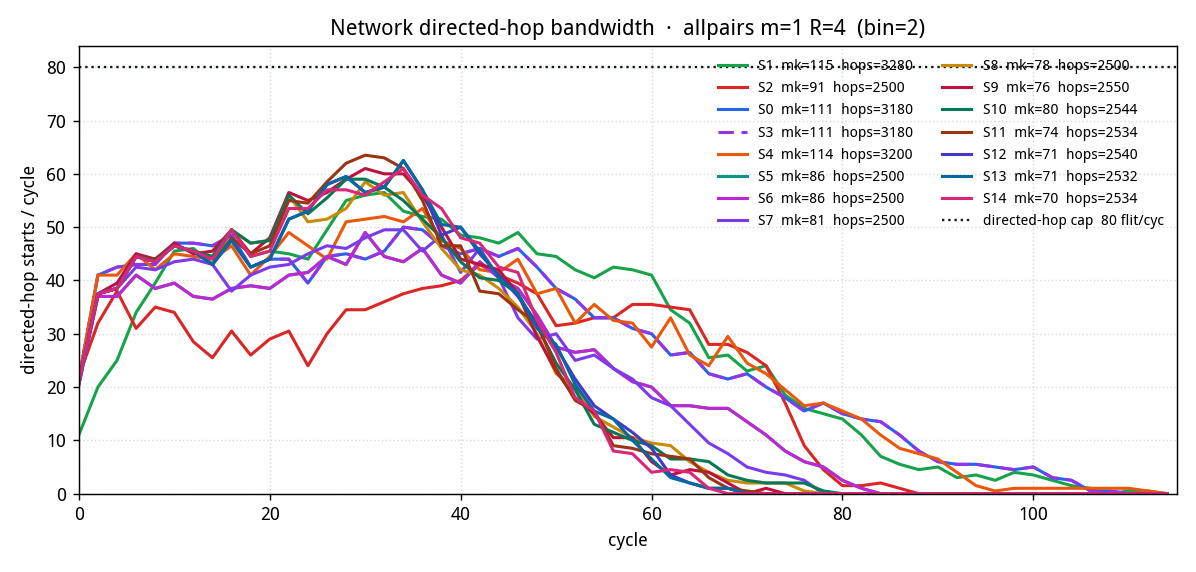
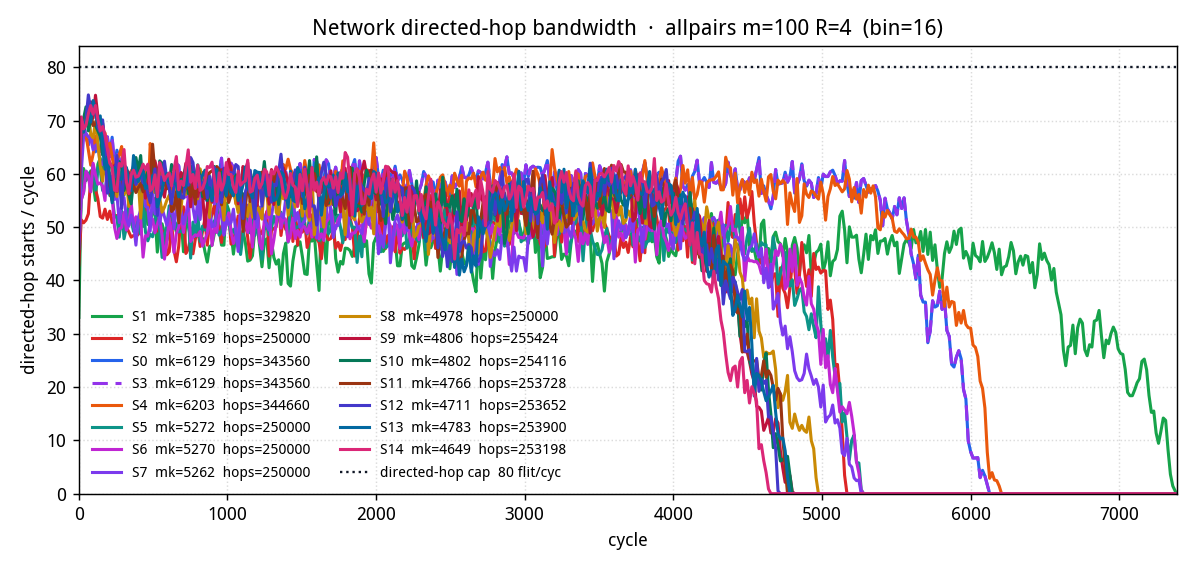
Plot allpairs directed-hop bandwidth at m=100 instead of m=1.
The previous overlay was latency-bound and barely loaded the 80-hop cap; m=100 makes the same figure bandwidth-limited so S0–S14 can be compared under sustained occupancy.

diff --git a/results/report_ring2_20node.html b/results/report_ring2_20node.html
@@ -194,9 +194,9 @@ S14 HA 同节点两条 srcq 争同一第一跳时，输家换 plane。</p>
 <p><img src="ring2_core_recv_bw_10k.png" alt="每核接收带宽 10k"></p>
 <p class="note">下面两张是<b>全网 80 条有向段</b>每拍启动的 hop 数（σ=1，
 虚线 = 80 flit/cycle）。偏转也计入——偏转会再占 hop。不是每核接收带宽。
-uniform 与 allpairs 各一张，S0–S14 叠在同一时间轴上。</p>
+uniform 与 allpairs m=100 各一张，S0–S14 叠在同一时间轴上。</p>
 <p><img src="ring2_link_bw_10k.png" alt="uniform 10k 全网有向段总带宽"></p>
-<p><img src="ring2_link_bw_allpairs.png" alt="allpairs 全网有向段总带宽"></p>
+<p><img src="ring2_link_bw_allpairs.png" alt="allpairs m=100 全网有向段总带宽"></p>
 <table><thead><tr><th></th><th>S0 RR</th><th>S1 AIMD</th><th>S2 request-grant</th><th>S3 push-on-pull</th><th>S4 kind-aware leave</th><th>S5 leave-slot lock</th><th>S6 oldest dest</th><th>S7 hop bounce</th><th>S8 late plane</th><th>S9 late dir</th><th>S10 resp late dir</th><th>S11 hop hold</th><th>S12 hop islip</th><th>S13 hop short</th><th>S14 HA sib plane</th></tr></thead><tbody><tr><td>makespan</td><td>14894</td><td>18616</td><td>10512</td><td>14894</td><td>15029</td><td>13001</td><td>13033</td><td>12798</td><td>11968</td><td>11698</td><td>11757</td><td>11351</td><td>11381</td><td>11201</td><td>11106</td></tr><tr><td>偏转次数</td><td>11035</td><td>9083</td><td>0</td><td>11035</td><td>10980</td><td>0</td><td>0</td><td>0</td><td>0</td><td>0</td><td>0</td><td>0</td><td>0</td><td>0</td><td>0</td></tr><tr><td>上环队列峰值</td><td>8</td><td>8</td><td>—</td><td>8</td><td>8</td><td>8</td><td>8</td><td>8</td><td>8</td><td>8</td><td>8</td><td>8</td><td>8</td><td>8</td><td>8</td></tr><tr><td>下环队列峰值</td><td>1</td><td>1</td><td>0</td><td>1</td><td>1</td><td>1</td><td>1</td><td>1</td><td>1</td><td>1</td><td>1</td><td>1</td><td>1</td><td>1</td><td>1</td></tr><tr><td>响应时延 p50</td><td>509</td><td>22</td><td>—</td><td>509</td><td>526</td><td>473</td><td>487</td><td>306</td><td>224</td><td>294</td><td>305</td><td>414</td><td>439</td><td>428</td><td>408</td></tr><tr><td>响应时延 p99</td><td>1405</td><td>187</td><td>—</td><td>1405</td><td>1370</td><td>1020</td><td>1077</td><td>1713</td><td>1335</td><td>1377</td><td>1430</td><td>807</td><td>828</td><td>748</td><td>919</td></tr><tr><td>HA 放出响应</td><td>0</td><td>0</td><td>0</td><td>100000</td><td>0</td><td>0</td><td>0</td><td>0</td><td>0</td><td>0</td><td>0</td><td>0</td><td>0</td><td>0</td><td>0</td></tr><tr><td>core 窗口峰值</td><td>0</td><td>0</td><td>0</td><td>0</td><td>0</td><td>0</td><td>0</td><td>0</td><td>0</td><td>0</td><td>0</td><td>0</td><td>0</td><td>0</td><td>0</td></tr><tr><td>每核 outstanding 峰值</td><td>100</td><td>56</td><td>100</td><td>100</td><td>100</td><td>100</td><td>100</td><td>100</td><td>100</td><td>100</td><td>100</td><td>100</td><td>100</td><td>100</td><td>100</td></tr><tr><td>core 0</td><td>上环 10000 (CW 5008 / CCW 4992)<br>失败 18439 (CW 9286 / CCW 9153)</td><td>上环 10000 (CW 5008 / CCW 4992)<br>失败 10118 (CW 5171 / CCW 4947)</td><td>上环 10000 (CW 5008 / CCW 4992)<br>失败 0 (CW 0 / CCW 0)</td><td>上环 10000 (CW 5008 / CCW 4992)<br>失败 18439 (CW 9286 / CCW 9153)</td><td>上环 10000 (CW 5008 / CCW 4992)<br>失败 18494 (CW 9610 / CCW 8884)</td><td>上环 10000 (CW 5008 / CCW 4992)<br>失败 9816 (CW 4835 / CCW 4981)</td><td>上环 10000 (CW 5008 / CCW 4992)<br>失败 9488 (CW 4779 / CCW 4709)</td><td>上环 10000 (CW 5008 / CCW 4992)<br>失败 6728 (CW 3324 / CCW 3404)</td><td>上环 10000 (CW 5008 / CCW 4992)<br>失败 6523 (CW 3435 / CCW 3088)</td><td>上环 10000 (CW 4982 / CCW 5018)<br>失败 6318 (CW 3188 / CCW 3130)</td><td>上环 10000 (CW 5029 / CCW 4971)<br>失败 5888 (CW 2860 / CCW 3028)</td><td>上环 10000 (CW 4962 / CCW 5038)<br>失败 5603 (CW 2585 / CCW 3018)</td><td>上环 10000 (CW 4996 / CCW 5004)<br>失败 44 (CW 17 / CCW 27)</td><td>上环 10000 (CW 4996 / CCW 5004)<br>失败 59 (CW 34 / CCW 25)</td><td>上环 10000 (CW 5015 / CCW 4985)<br>失败 69 (CW 35 / CCW 34)</td></tr><tr><td>core 2</td><td>上环 10000 (CW 4888 / CCW 5112)<br>失败 18800 (CW 9570 / CCW 9230)</td><td>上环 10000 (CW 4888 / CCW 5112)<br>失败 10886 (CW 5413 / CCW 5473)</td><td>上环 10000 (CW 4888 / CCW 5112)<br>失败 0 (CW 0 / CCW 0)</td><td>上环 10000 (CW 4888 / CCW 5112)<br>失败 18800 (CW 9570 / CCW 9230)</td><td>上环 10000 (CW 4888 / CCW 5112)<br>失败 18561 (CW 9193 / CCW 9368)</td><td>上环 10000 (CW 4888 / CCW 5112)<br>失败 9969 (CW 4965 / CCW 5004)</td><td>上环 10000 (CW 4888 / CCW 5112)<br>失败 9836 (CW 4809 / CCW 5027)</td><td>上环 10000 (CW 4888 / CCW 5112)<br>失败 6741 (CW 3251 / CCW 3490)</td><td>上环 10000 (CW 4888 / CCW 5112)<br>失败 6997 (CW 3378 / CCW 3619)</td><td>上环 10000 (CW 4889 / CCW 5111)<br>失败 6045 (CW 2961 / CCW 3084)</td><td>上环 10000 (CW 4892 / CCW 5108)<br>失败 5753 (CW 2933 / CCW 2820)</td><td>上环 10000 (CW 4949 / CCW 5051)<br>失败 5694 (CW 2747 / CCW 2947)</td><td>上环 10000 (CW 4903 / CCW 5097)<br>失败 57 (CW 27 / CCW 30)</td><td>上环 10000 (CW 4913 / CCW 5087)<br>失败 88 (CW 37 / CCW 51)</td><td>上环 10000 (CW 4929 / CCW 5071)<br>失败 69 (CW 34 / CCW 35)</td></tr><tr><td>core 4</td><td>上环 10000 (CW 4920 / CCW 5080)<br>失败 19034 (CW 9565 / CCW 9469)</td><td>上环 10000 (CW 4920 / CCW 5080)<br>失败 11960 (CW 5720 / CCW 6240)</td><td>上环 10000 (CW 4920 / CCW 5080)<br>失败 0 (CW 0 / CCW 0)</td><td>上环 10000 (CW 4920 / CCW 5080)<br>失败 19034 (CW 9565 / CCW 9469)</td><td>上环 10000 (CW 4920 / CCW 5080)<br>失败 19233 (CW 9388 / CCW 9845)</td><td>上环 10000 (CW 4920 / CCW 5080)<br>失败 9845 (CW 4924 / CCW 4921)</td><td>上环 10000 (CW 4920 / CCW 5080)<br>失败 9827 (CW 4821 / CCW 5006)</td><td>上环 10000 (CW 4920 / CCW 5080)<br>失败 7108 (CW 3546 / CCW 3562)</td><td>上环 10000 (CW 4920 / CCW 5080)<br>失败 6677 (CW 3272 / CCW 3405)</td><td>上环 10000 (CW 4946 / CCW 5054)<br>失败 5770 (CW 2790 / CCW 2980)</td><td>上环 10000 (CW 4935 / CCW 5065)<br>失败 6246 (CW 3034 / CCW 3212)</td><td>上环 10000 (CW 4949 / CCW 5051)<br>失败 5456 (CW 2551 / CCW 2905)</td><td>上环 10000 (CW 4931 / CCW 5069)<br>失败 77 (CW 31 / CCW 46)</td><td>上环 10000 (CW 4915 / CCW 5085)<br>失败 66 (CW 33 / CCW 33)</td><td>上环 10000 (CW 4968 / CCW 5032)<br>失败 67 (CW 29 / CCW 38)</td></tr><tr><td>core 6</td><td>上环 10000 (CW 4924 / CCW 5076)<br>失败 18797 (CW 9298 / CCW 9499)</td><td>上环 10000 (CW 4924 / CCW 5076)<br>失败 11576 (CW 5591 / CCW 5985)</td><td>上环 10000 (CW 4924 / CCW 5076)<br>失败 0 (CW 0 / CCW 0)</td><td>上环 10000 (CW 4924 / CCW 5076)<br>失败 18797 (CW 9298 / CCW 9499)</td><td>上环 10000 (CW 4924 / CCW 5076)<br>失败 18655 (CW 8897 / CCW 9758)</td><td>上环 10000 (CW 4924 / CCW 5076)<br>失败 9867 (CW 4798 / CCW 5069)</td><td>上环 10000 (CW 4924 / CCW 5076)<br>失败 9409 (CW 4620 / CCW 4789)</td><td>上环 10000 (CW 4924 / CCW 5076)<br>失败 7317 (CW 3529 / CCW 3788)</td><td>上环 10000 (CW 4924 / CCW 5076)<br>失败 7153 (CW 3388 / CCW 3765)</td><td>上环 10000 (CW 4942 / CCW 5058)<br>失败 6052 (CW 2981 / CCW 3071)</td><td>上环 10000 (CW 4965 / CCW 5035)<br>失败 5956 (CW 2996 / CCW 2960)</td><td>上环 10000 (CW 4911 / CCW 5089)<br>失败 5484 (CW 2672 / CCW 2812)</td><td>上环 10000 (CW 4986 / CCW 5014)<br>失败 47 (CW 11 / CCW 36)</td><td>上环 10000 (CW 4924 / CCW 5076)<br>失败 83 (CW 44 / CCW 39)</td><td>上环 10000 (CW 4938 / CCW 5062)<br>失败 59 (CW 33 / CCW 26)</td></tr><tr><td>core 8</td><td>上环 10000 (CW 5124 / CCW 4876)<br>失败 18236 (CW 8878 / CCW 9358)</td><td>上环 10000 (CW 5124 / CCW 4876)<br>失败 12008 (CW 5943 / CCW 6065)</td><td>上环 10000 (CW 5124 / CCW 4876)<br>失败 0 (CW 0 / CCW 0)</td><td>上环 10000 (CW 5124 / CCW 4876)<br>失败 18236 (CW 8878 / CCW 9358)</td><td>上环 10000 (CW 5124 / CCW 4876)<br>失败 19340 (CW 10193 / CCW 9147)</td><td>上环 10000 (CW 5124 / CCW 4876)<br>失败 10003 (CW 4964 / CCW 5039)</td><td>上环 10000 (CW 5124 / CCW 4876)<br>失败 9801 (CW 5079 / CCW 4722)</td><td>上环 10000 (CW 5124 / CCW 4876)<br>失败 6890 (CW 3460 / CCW 3430)</td><td>上环 10000 (CW 5124 / CCW 4876)<br>失败 6869 (CW 3533 / CCW 3336)</td><td>上环 10000 (CW 5087 / CCW 4913)<br>失败 5862 (CW 3065 / CCW 2797)</td><td>上环 10000 (CW 5099 / CCW 4901)<br>失败 6131 (CW 3078 / CCW 3053)</td><td>上环 10000 (CW 5103 / CCW 4897)<br>失败 5508 (CW 2742 / CCW 2766)</td><td>上环 10000 (CW 5135 / CCW 4865)<br>失败 50 (CW 31 / CCW 19)</td><td>上环 10000 (CW 5106 / CCW 4894)<br>失败 57 (CW 32 / CCW 25)</td><td>上环 10000 (CW 5113 / CCW 4887)<br>失败 61 (CW 31 / CCW 30)</td></tr><tr><td>core 10</td><td>上环 10000 (CW 4828 / CCW 5172)<br>失败 18804 (CW 9073 / CCW 9731)</td><td>上环 10000 (CW 4828 / CCW 5172)<br>失败 11970 (CW 5757 / CCW 6213)</td><td>上环 10000 (CW 4828 / CCW 5172)<br>失败 0 (CW 0 / CCW 0)</td><td>上环 10000 (CW 4828 / CCW 5172)<br>失败 18804 (CW 9073 / CCW 9731)</td><td>上环 10000 (CW 4828 / CCW 5172)<br>失败 19338 (CW 8993 / CCW 10345)</td><td>上环 10000 (CW 4828 / CCW 5172)<br>失败 9977 (CW 4778 / CCW 5199)</td><td>上环 10000 (CW 4828 / CCW 5172)<br>失败 9745 (CW 4855 / CCW 4890)</td><td>上环 10000 (CW 4828 / CCW 5172)<br>失败 6923 (CW 3297 / CCW 3626)</td><td>上环 10000 (CW 4828 / CCW 5172)<br>失败 7001 (CW 3212 / CCW 3789)</td><td>上环 10000 (CW 4877 / CCW 5123)<br>失败 6227 (CW 2876 / CCW 3351)</td><td>上环 10000 (CW 4873 / CCW 5127)<br>失败 6264 (CW 3030 / CCW 3234)</td><td>上环 10000 (CW 4803 / CCW 5197)<br>失败 5321 (CW 2532 / CCW 2789)</td><td>上环 10000 (CW 4815 / CCW 5185)<br>失败 58 (CW 34 / CCW 24)</td><td>上环 10000 (CW 4870 / CCW 5130)<br>失败 75 (CW 35 / CCW 40)</td><td>上环 10000 (CW 4829 / CCW 5171)<br>失败 80 (CW 40 / CCW 40)</td></tr><tr><td>core 12</td><td>上环 10000 (CW 5056 / CCW 4944)<br>失败 18191 (CW 9483 / CCW 8708)</td><td>上环 10000 (CW 5056 / CCW 4944)<br>失败 10945 (CW 5495 / CCW 5450)</td><td>上环 10000 (CW 5056 / CCW 4944)<br>失败 0 (CW 0 / CCW 0)</td><td>上环 10000 (CW 5056 / CCW 4944)<br>失败 18191 (CW 9483 / CCW 8708)</td><td>上环 10000 (CW 5056 / CCW 4944)<br>失败 18736 (CW 9300 / CCW 9436)</td><td>上环 10000 (CW 5056 / CCW 4944)<br>失败 9479 (CW 4921 / CCW 4558)</td><td>上环 10000 (CW 5056 / CCW 4944)<br>失败 10423 (CW 5058 / CCW 5365)</td><td>上环 10000 (CW 5056 / CCW 4944)<br>失败 7294 (CW 3568 / CCW 3726)</td><td>上环 10000 (CW 5056 / CCW 4944)<br>失败 6602 (CW 3362 / CCW 3240)</td><td>上环 10000 (CW 5015 / CCW 4985)<br>失败 5863 (CW 2893 / CCW 2970)</td><td>上环 10000 (CW 5061 / CCW 4939)<br>失败 5972 (CW 2859 / CCW 3113)</td><td>上环 10000 (CW 5078 / CCW 4922)<br>失败 5831 (CW 2824 / CCW 3007)</td><td>上环 10000 (CW 5033 / CCW 4967)<br>失败 58 (CW 25 / CCW 33)</td><td>上环 10000 (CW 5068 / CCW 4932)<br>失败 84 (CW 50 / CCW 34)</td><td>上环 10000 (CW 5002 / CCW 4998)<br>失败 89 (CW 49 / CCW 40)</td></tr><tr><td>core 14</td><td>上环 10000 (CW 4912 / CCW 5088)<br>失败 19072 (CW 9335 / CCW 9737)</td><td>上环 10000 (CW 4912 / CCW 5088)<br>失败 10631 (CW 5361 / CCW 5270)</td><td>上环 10000 (CW 4912 / CCW 5088)<br>失败 0 (CW 0 / CCW 0)</td><td>上环 10000 (CW 4912 / CCW 5088)<br>失败 19072 (CW 9335 / CCW 9737)</td><td>上环 10000 (CW 4912 / CCW 5088)<br>失败 18682 (CW 9001 / CCW 9681)</td><td>上环 10000 (CW 4912 / CCW 5088)<br>失败 9921 (CW 4987 / CCW 4934)</td><td>上环 10000 (CW 4912 / CCW 5088)<br>失败 9490 (CW 4736 / CCW 4754)</td><td>上环 10000 (CW 4912 / CCW 5088)<br>失败 7125 (CW 3466 / CCW 3659)</td><td>上环 10000 (CW 4912 / CCW 5088)<br>失败 6753 (CW 3475 / CCW 3278)</td><td>上环 10000 (CW 4945 / CCW 5055)<br>失败 6183 (CW 2994 / CCW 3189)</td><td>上环 10000 (CW 4878 / CCW 5122)<br>失败 5790 (CW 2872 / CCW 2918)</td><td>上环 10000 (CW 4882 / CCW 5118)<br>失败 5671 (CW 2744 / CCW 2927)</td><td>上环 10000 (CW 4945 / CCW 5055)<br>失败 58 (CW 33 / CCW 25)</td><td>上环 10000 (CW 4899 / CCW 5101)<br>失败 86 (CW 36 / CCW 50)</td><td>上环 10000 (CW 4898 / CCW 5102)<br>失败 98 (CW 47 / CCW 51)</td></tr><tr><td>core 16</td><td>上环 10000 (CW 5032 / CCW 4968)<br>失败 18459 (CW 9378 / CCW 9081)</td><td>上环 10000 (CW 5032 / CCW 4968)<br>失败 10262 (CW 5148 / CCW 5114)</td><td>上环 10000 (CW 5032 / CCW 4968)<br>失败 0 (CW 0 / CCW 0)</td><td>上环 10000 (CW 5032 / CCW 4968)<br>失败 18459 (CW 9378 / CCW 9081)</td><td>上环 10000 (CW 5032 / CCW 4968)<br>失败 18923 (CW 9557 / CCW 9366)</td><td>上环 10000 (CW 5032 / CCW 4968)<br>失败 9203 (CW 4749 / CCW 4454)</td><td>上环 10000 (CW 5032 / CCW 4968)<br>失败 9542 (CW 4727 / CCW 4815)</td><td>上环 10000 (CW 5032 / CCW 4968)<br>失败 7214 (CW 3825 / CCW 3389)</td><td>上环 10000 (CW 5032 / CCW 4968)<br>失败 6784 (CW 3476 / CCW 3308)</td><td>上环 10000 (CW 5025 / CCW 4975)<br>失败 6183 (CW 2980 / CCW 3203)</td><td>上环 10000 (CW 4975 / CCW 5025)<br>失败 6112 (CW 3135 / CCW 2977)</td><td>上环 10000 (CW 5013 / CCW 4987)<br>失败 5432 (CW 2728 / CCW 2704)</td><td>上环 10000 (CW 5007 / CCW 4993)<br>失败 57 (CW 23 / CCW 34)</td><td>上环 10000 (CW 5002 / CCW 4998)<br>失败 87 (CW 37 / CCW 50)</td><td>上环 10000 (CW 5037 / CCW 4963)<br>失败 85 (CW 44 / CCW 41)</td></tr><tr><td>core 18</td><td>上环 10000 (CW 5044 / CCW 4956)<br>失败 18730 (CW 9830 / CCW 8900)</td><td>上环 10000 (CW 5044 / CCW 4956)<br>失败 10418 (CW 5435 / CCW 4983)</td><td>上环 10000 (CW 5044 / CCW 4956)<br>失败 0 (CW 0 / CCW 0)</td><td>上环 10000 (CW 5044 / CCW 4956)<br>失败 18730 (CW 9830 / CCW 8900)</td><td>上环 10000 (CW 5044 / CCW 4956)<br>失败 19272 (CW 9783 / CCW 9489)</td><td>上环 10000 (CW 5044 / CCW 4956)<br>失败 9814 (CW 5141 / CCW 4673)</td><td>上环 10000 (CW 5044 / CCW 4956)<br>失败 10244 (CW 5319 / CCW 4925)</td><td>上环 10000 (CW 5044 / CCW 4956)<br>失败 6995 (CW 3683 / CCW 3312)</td><td>上环 10000 (CW 5044 / CCW 4956)<br>失败 6719 (CW 3695 / CCW 3024)</td><td>上环 10000 (CW 4967 / CCW 5033)<br>失败 6209 (CW 3225 / CCW 2984)</td><td>上环 10000 (CW 4947 / CCW 5053)<br>失败 6267 (CW 3191 / CCW 3076)</td><td>上环 10000 (CW 4954 / CCW 5046)<br>失败 5527 (CW 2745 / CCW 2782)</td><td>上环 10000 (CW 4992 / CCW 5008)<br>失败 63 (CW 43 / CCW 20)</td><td>上环 10000 (CW 4965 / CCW 5035)<br>失败 85 (CW 46 / CCW 39)</td><td>上环 10000 (CW 4997 / CCW 5003)<br>失败 63 (CW 37 / CCW 26)</td></tr><tr><td>合计</td><td>上环 100000 (CW 49736 / CCW 50264)<br>失败 186562 (CW 93696 / CCW 92866)</td><td>上环 100000 (CW 49736 / CCW 50264)<br>失败 110774 (CW 55034 / CCW 55740)</td><td>上环 100000 (CW 49736 / CCW 50264)<br>失败 0 (CW 0 / CCW 0)</td><td>上环 100000 (CW 49736 / CCW 50264)<br>失败 186562 (CW 93696 / CCW 92866)</td><td>上环 100000 (CW 49736 / CCW 50264)<br>失败 189234 (CW 93915 / CCW 95319)</td><td>上环 100000 (CW 49736 / CCW 50264)<br>失败 97894 (CW 49062 / CCW 48832)</td><td>上环 100000 (CW 49736 / CCW 50264)<br>失败 97805 (CW 48803 / CCW 49002)</td><td>上环 100000 (CW 49736 / CCW 50264)<br>失败 70335 (CW 34949 / CCW 35386)</td><td>上环 100000 (CW 49736 / CCW 50264)<br>失败 68078 (CW 34226 / CCW 33852)</td><td>上环 100000 (CW 49675 / CCW 50325)<br>失败 60712 (CW 29953 / CCW 30759)</td><td>上环 100000 (CW 49654 / CCW 50346)<br>失败 60379 (CW 29988 / CCW 30391)</td><td>上环 100000 (CW 49604 / CCW 50396)<br>失败 55527 (CW 26870 / CCW 28657)</td><td>上环 100000 (CW 49743 / CCW 50257)<br>失败 569 (CW 275 / CCW 294)</td><td>上环 100000 (CW 49658 / CCW 50342)<br>失败 770 (CW 384 / CCW 386)</td><td>上环 100000 (CW 49726 / CCW 50274)<br>失败 740 (CW 379 / CCW 361)</td></tr></tbody></table>
 <p class="note">墙钟 293.7s。</p>
 

diff --git a/utils/gen_ring2_report.py b/utils/gen_ring2_report.py
@@ -376,9 +376,9 @@ S14 HA 同节点两条 srcq 争同一第一跳时，输家换 plane。</p>
 <p><img src="ring2_core_recv_bw_10k.png" alt="每核接收带宽 10k"></p>
 <p class="note">下面两张是<b>全网 80 条有向段</b>每拍启动的 hop 数（σ=1，
 虚线 = 80 flit/cycle）。偏转也计入——偏转会再占 hop。不是每核接收带宽。
-uniform 与 allpairs 各一张，S0–S14 叠在同一时间轴上。</p>
+uniform 与 allpairs m=100 各一张，S0–S14 叠在同一时间轴上。</p>
 <p><img src="ring2_link_bw_10k.png" alt="uniform 10k 全网有向段总带宽"></p>
-<p><img src="ring2_link_bw_allpairs.png" alt="allpairs 全网有向段总带宽"></p>
+<p><img src="ring2_link_bw_allpairs.png" alt="allpairs m=100 全网有向段总带宽"></p>
 {_table(["", "S0 RR", "S1 AIMD", "S2 request-grant",
          "S3 push-on-pull", "S4 kind-aware leave",
          "S5 leave-slot lock", "S6 oldest dest",
@@ -397,11 +397,11 @@ uniform 与 allpairs 各一张，S0–S14 叠在同一时间轴上。</p>
     lats = ", ".join(str(x) for x in topo.link_lats)
     bnd_rows, bnd = _bound_rows(topo, big, cmp_)
     n_dir = len(topo.directed_links)
-    ap_tr = _collect_traces(topo, build_allpairs(m=1, m_resp=4))
+    ap_tr = _collect_traces(topo, build_allpairs(m=100, m_resp=4))
     plot_directed_link_bw(
         ap_tr, ROOT / "results" / "ring2_link_bw_allpairs.png",
-        bin_w=2,
-        title="Network directed-hop bandwidth  ·  allpairs m=1 R=4  (bin=2)",
+        bin_w=16,
+        title="Network directed-hop bandwidth  ·  allpairs m=100 R=4  (bin=16)",
         cap=n_dir)
     if any((v.get("hop_bw") or v.get("hop_starts"))
            for v in (big.get("schemes") or {}).values()):
